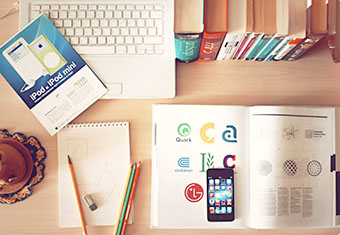
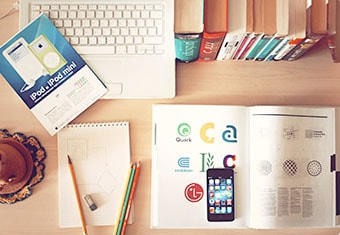
Improve Mod_05

diff --git a/index.html b/index.html
@@ -195,7 +195,7 @@
           <h3>Facebook marketing</h3>
         </div>
 
-        <img src="img/photo-1.png" alt="" class="photo">
+        <img src="img/photo-1.jpg" alt="" class="photo">
 
         <div class="project-name">
           <img src="img/letter.png" alt="">
@@ -203,9 +203,9 @@
           <h3>Landing Page</h3>
         </div>
 
-        <img src="img/photo-2.png" alt="" class="photo">
+        <img src="img/photo-2.jpg" alt="" class="photo">
 
-        <img src="img/photo-3.png" alt="" class="photo">
+        <img src="img/photo-3.jpg" alt="" class="photo">
 
         <div class="project-name">
           <img src="img/letter.png" alt="">
@@ -213,7 +213,7 @@
           <h3>Landing Page</h3>
         </div>
 
-        <img src="img/photo-4.png" alt="" class="photo">
+        <img src="img/photo-4.jpg" alt="" class="photo">
 
         <div class="project-name">
           <img src="img/letter.png" alt="">
